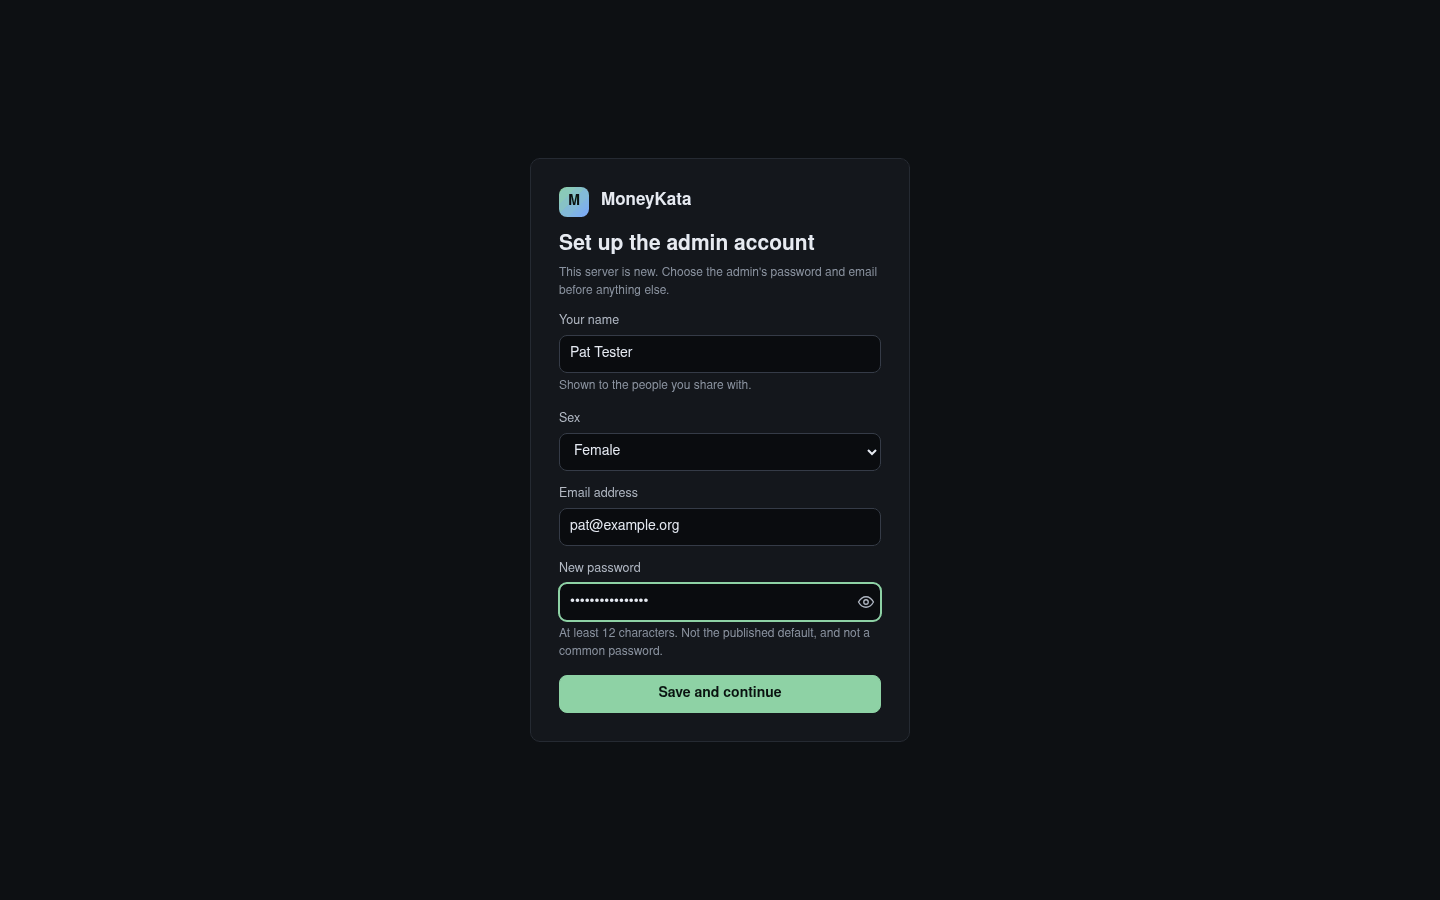
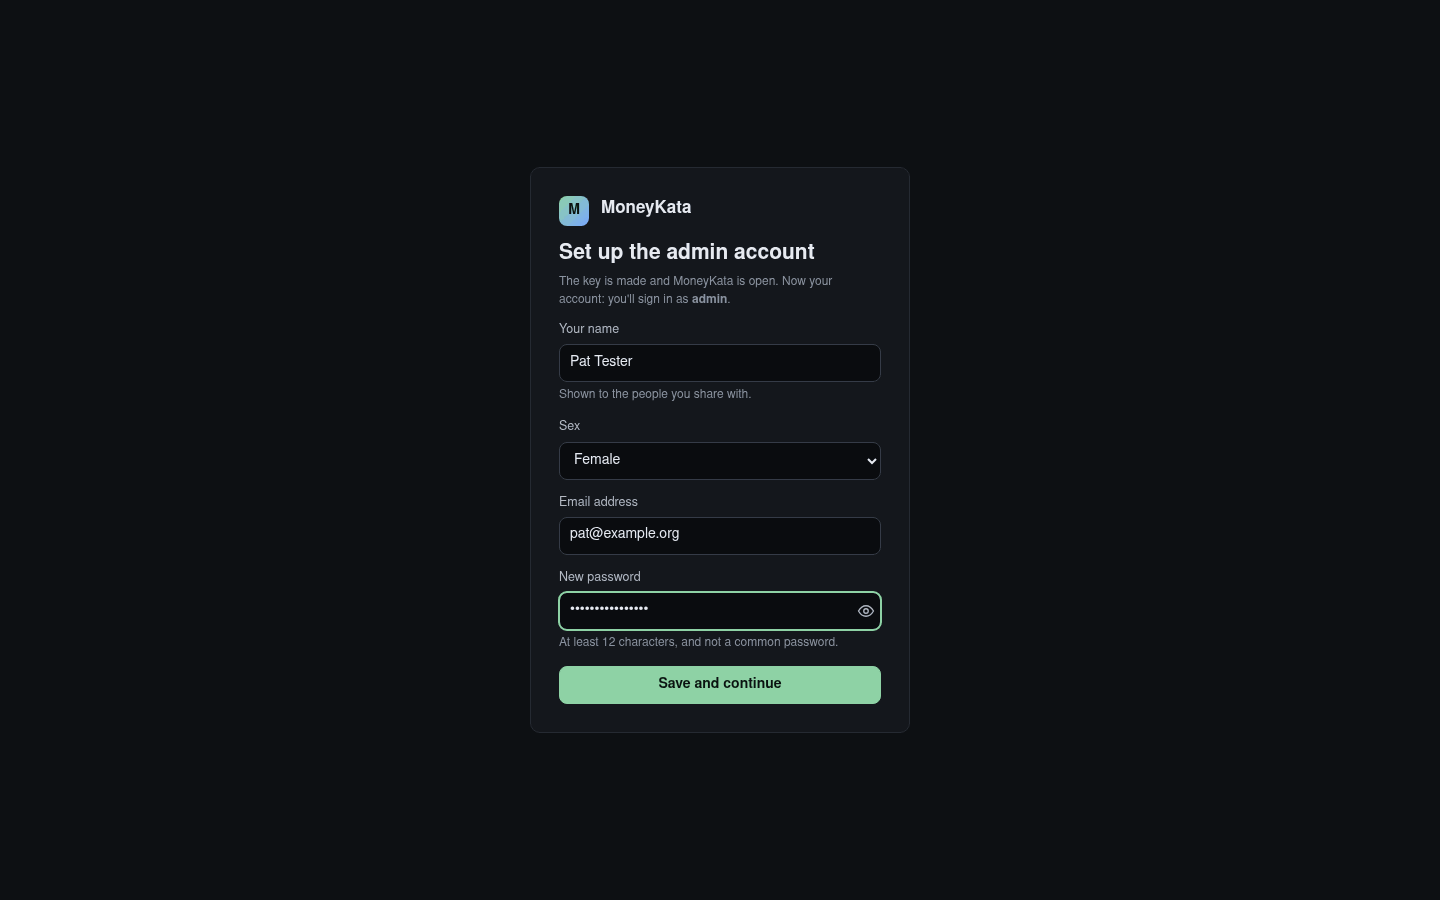
Welcome (part 4 of 6): smoke.sh and the docs
- web/install/smoke.sh, the release gate on each architecture: a keyring it can't read
  refuses the start (exit 78); a new server starts uninitialised and alive to its health
  check; the welcome's routes make its key and first admin; it stops cleanly, comes back
  locked, opens with `keys unlock` and signs in. Run here on amd64: passed.
- DEPLOY.md: no `keys init` step on either host; §5 is the welcome (the phrase's screenshot
  blurred: never a real one in a picture), with the locked screen after every restart and
  Verify key; TrueNAS shows Running once the container answers; a key nobody wrote down is
  started over without its keyring.
- operations.md: the welcome as §2 step 4 (`keys init` on a terminal as the other way),
  health that means alive, the refused start's table, and Verify key in the drills;
  S17.8.1's smoke run; the README and the test plan's T10-T11.

Changed region(s): [[0.375, 0.4978, 0.625, 0.8089], [0.375, 0.1867, 0.5938, 0.4978]]

diff --git a/web/server/tests/test_install.py b/web/server/tests/test_install.py
@@ -174,7 +174,10 @@ def test_the_smoke_script_is_there_for_each_platform():
         "web/install/smoke.sh must be executable"
     )
     text = script.read_text()
-    assert "linux/arm64" in text and "keys unlock" in text and "503" in text
+    assert "linux/arm64" in text and "keys unlock" in text
+    # A new server's welcome, then the locked start after a restart (S15.4).
+    assert "wait_for uninitialised" in text and "/ui/api/welcome/key" in text
+    assert "wait_for locked" in text
 
 
 def test_the_truenas_app_keeps_the_compose_files_promises():

diff --git a/docs/operations.md b/docs/operations.md
@@ -15,7 +15,8 @@ listening on port 37373. It needs three things from the host, and one thing from
 | `backups/`      | `/var/backups/moneykata`  | the daily backups                               |
 | `moneykata.toml`| `/etc/moneykata.toml` (read only) | the configuration; never a secret       |
 
-The master key is the **recovery phrase**, and it is never stored: the server starts locked
+The master key is the **recovery phrase**, and it is never stored: a new server's page
+welcomes its first admin and shows the phrase once, and after that the server starts locked
 after every start (a restart, an upgrade, a reboot) until someone enters the phrase, on the
 locked screen in a browser or with `docker compose exec moneykata moneykata keys unlock`
 (S15.4). Nothing on the host holds a key, so the host can be snapshotted and backed up whole.
@@ -58,8 +59,9 @@ The app itself (`/ui`) stays reachable only on the household's own network or ov
    ```
 
    `web/install/smoke.sh [linux/arm64]` builds both images for a platform and runs them
-   once, as a release's gate does (S17.8.1): the key from a phrase, a refused start, health,
-   a sign-in, a receipt read, the connector's vault and unlock, and clean stops. Another
+   once, as a release's gate does (S17.8.1): a refused start, the welcome's key and first
+   admin, a locked restart and its unlock, health, a sign-in, a receipt read, the connector's
+   vault and unlock, and clean stops. Another
    platform than the machine's own runs under QEMU (`docker run --privileged --rm
    tonistiigi/binfmt --install arm64`, once).
 2. **Make the folders**, owned by the container's user:
@@ -71,12 +73,7 @@ The app itself (`/ui`) stays reachable only on the household's own network or ov
    Keep `backups/` inside what the host backs up, beside `data/` (S14.6): a backup here is the
    database only, and the host's own backup of both is what keeps the receipts. A further copy
    off the host is welcome, as long as the phrase never goes with it.
-3. **Make the master key**: `docker compose run --rm moneykata keys init`. It shows the
-   **recovery phrase**, 12 words, on the terminal only (never in Docker's logs; it refuses to
-   run without a terminal), and won't finish until you type three of them back. The phrase is
-   the key: nothing of it is written, and nothing shows it again. Store it as S15.6 says: two
-   copies in two places, one offline, never with the backups.
-4. **Start it**: `docker compose up -d`, then point the reverse proxy at it and set
+3. **Start it**: `docker compose up -d`, then point the reverse proxy at it and set
    `trusted_proxies` in `moneykata.toml` to the proxy's own address, never a whole range
    (S13.3): anything else in the range could pose as the proxy. The listener speaks plain HTTP
    in `proxy` mode, so the compose file publishes it on the host's loopback only. A proxy in
@@ -87,10 +84,19 @@ The app itself (`/ui`) stays reachable only on the household's own network or ov
    `127.0.0.1:37373` from the bridge's gateway, `172.30.37.1`, as every other process on the
    host does. The compose file gives the container the host's time zone (`/etc/localtime` and
    `TZ`), which backups and daily emails follow.
-5. **Unlock it**: it starts locked. Open the app and enter the phrase on the locked screen,
-   or run `docker compose exec moneykata moneykata keys unlock` and type it there. Do this
-   after every start. A server with no users then makes `admin` with a default password; its
-   first sign-in asks for a new password and an email address (S10.1.2).
+4. **Open it: the welcome.** With no keyring, the server starts uninitialised and its page
+   welcomes the first admin (S15.4.4): **Show my recovery phrase** shows the 12 words once,
+   three typed back make the key, and **Set up the admin account** makes `admin`, signed in at
+   once (S10.1.2). The phrase is the key: nothing of it is written, and nothing shows it again.
+   Store it as S15.6 says: two copies in two places, one offline, never with the backups.
+   Whoever reaches a new server first can finish its welcome; one that asks for words nobody
+   wrote down is started again without its keyring (`data/keyring`). On a terminal instead,
+   `docker compose run --rm moneykata keys init` makes the key before the first start (it
+   shows the phrase on the terminal only, never in Docker's logs); the page then sets up the
+   first admin at the first unlock.
+5. **Unlock it after every start**: it starts locked. Open the app and enter the phrase on the
+   locked screen, or run `docker compose exec moneykata moneykata keys unlock` and type it
+   there.
 
 ### 2.1 On Proxmox
 
@@ -106,9 +112,9 @@ The app itself (`/ui`) stays reachable only on the household's own network or ov
 ### 2.2 On TrueNAS
 
 [`DEPLOY.md`](DEPLOY.md) §4 installs it on TrueNAS Community Edition manually, step by step: two
-datasets for data and backups, owned by uid 10001; the image built and the key made from
-**System › Shell** (`docker run -it … keys init`, since a custom app has no compose folder to
-run it from); and a **custom app** from **Install via YAML**, with the datasets as host paths.
+datasets for data and backups, owned by uid 10001, and `moneykata.toml` beside them, made in
+**System › Shell**; a **custom app** from **Install via YAML**, with the datasets as host paths;
+and the welcome, which makes the key and the admin.
 Both datasets go into snapshot and replication tasks as they are: nothing in them opens
 without the phrase. Unlock after each start (§2 step 5).
 
@@ -129,8 +135,7 @@ without the phrase. Unlock after each start (§2 step 5).
    `moneykata` service and the key commands), and run `docker compose up -d`.
 2. At the unlock the server copies the database into `data/pre-upgrade/` and checks the copy,
    then migrates it one revision at a time. The three newest copies are kept.
-3. Unlock it (§2 step 5), then watch it come up: `docker compose ps` shows `healthy` once
-   it answers; it shows `unhealthy` while locked.
+3. Unlock it (§2 step 5), then watch it come up: `/healthz` answers `ok` once it serves.
 
 **Going back** to the earlier release: stop it, set the old tag again, and restore the copy
 made before the upgrade with `db restore data/pre-upgrade/<copy>` (or the last backup, §6). An
@@ -162,12 +167,15 @@ start:` line (§5.1).
   household do): signed calls between servers and from the connector are refused when the
   clocks differ by more than a minute, and two-step codes drift with them.
 - **Health**: the image checks itself every 30 seconds (`moneykata health`, which asks
-  `/healthz`). `docker compose ps` shows `starting`, `healthy` or `unhealthy`. From outside,
+  `/healthz`): it is healthy whenever the server answers, ready, locked or uninitialised, so
+  `docker compose ps` (and an orchestrator waiting for healthy containers) shows `healthy`
+  while the server waits for its phrase, and `unhealthy` only when nothing answers (S13.6).
+  Whether it is ready is `/healthz`'s own answer. From outside,
   point an uptime monitor (Uptime Kuma, for example) at `https://<your address>/healthz`: it
   answers `{"status": "ok", "version": …}` once the server is unlocked and ready, 503 with
-  `"re-encrypting"` while a re-encryption runs at the unlock, and 503 with `"locked"` while it
+  `"re-encrypting"` while a re-encryption runs at the unlock, 503 with `"locked"` while it
   waits for the phrase, which is how anyone learns that a reboot happened and the phrase is
-  needed.
+  needed, and 503 with `"uninitialised"` on a new server, until its welcome makes the key.
 - **Alerts**: problems that need someone show in Alerts for admins, and are emailed to those
   who chose it: a failed backup, a price source, email, the bitcoin node or a linked server
   failing for longer than Settings › Alerts allows, and a recovery phrase not confirmed.
@@ -187,7 +195,7 @@ causes:
 
 | The line says                         | Do                                                      |
 |---------------------------------------|---------------------------------------------------------|
-| the keyring is missing or can't be read | a new server: `keys init` (§2); a rebuilt one: restore a backup (§6.2) |
+| the keyring can't be read              | restore it with a backup (§6); a new server has no keyring at all, and starts uninitialised |
 | the config file has a problem, or a key it doesn't know | fix `moneykata.toml` as the line says |
 | the data directory is in use          | another server, or a host command, is using the same `data/`: stop it |
 
@@ -220,8 +228,9 @@ phrase, or the keyring from another server: the line names its fingerprint).
 
 ### 6.2 Onto a new host
 
-1. Install the image and make the folders as in §2, but don't run `keys init`: the backup
-   brings its keyring, and the phrase is the key.
+1. Install the image and make the folders as in §2, but don't start it: a server started on
+   an empty `data/` would welcome a new admin and make a new key, and the backup brings its own
+   keyring, under its phrase.
 2. Put `data/receipts/` back from the host's own backup, taken as near the backup's time as it
    has: a backup here holds no receipts (§4).
 3. Copy the backup folder into the new `backups/`, then restore, start and unlock as in §6.1,
@@ -233,16 +242,17 @@ phrase, or the keyring from another server: the line names its fingerprint).
   checks the newest backup's hashes, when it was made and that it opens, and changes nothing.
 - **Yearly**: rehearse §6.2 into a throwaway folder on another machine or a scratch VM, with
   the phrase from its offline copy. That proves the backups, the phrase and these steps
-  together. In the same sitting, check the phrase's copies are readable and run
-  `docker compose run --rm moneykata keys verify` (S15.6.5). Every unlock after a restart is
-  a check as well.
+  together. In the same sitting, check the phrase's copies are readable and check each with
+  **Verify key** in Settings › Key storage (or `docker compose run --rm moneykata keys verify`,
+  S15.6.5). Every unlock after a restart is a check as well.
 
 ## 7. Keys
 
 - **Unlock after a start**: `docker compose exec moneykata moneykata keys unlock`, which hands
   the phrase to the server over its socket, or the locked screen in a browser. Nothing shows
   the phrase again: it is never stored.
-- **Check a copy of the phrase**: `docker compose run --rm moneykata keys verify`.
+- **Check a copy of the phrase**: **Verify key** in Settings › Key storage, or `docker compose
+  run --rm moneykata keys verify`.
 - **Rotate the master key** (S15.7.1): a rotation brings a new data key as well, so the data is
   re-encrypted. With the server running, `docker compose exec moneykata moneykata keys rotate`.
   It needs no old phrase (the running server holds the data key), shows the new one on the

diff --git a/docs/DEPLOY.md b/docs/DEPLOY.md
@@ -9,9 +9,9 @@ relies on goes behind its reverse proxy instead ([`operations.md`](operations.md
 keys and the connector.
 
 The steps were run on Proxmox VE 9.2 with a Debian 13 guest and Docker Engine 29, and on
-TrueNAS Community Edition 25.10.7, with the image built on each host; the screenshots are from
-those runs. A release's images are published on ghcr.io (§2), and a host pulls them in place
-of that build.
+TrueNAS Community Edition 25.10.7, with the image built on each host; their screenshots are from
+those runs, and §5's are from a server built from the same source. A release's images are
+published on ghcr.io (§2), and a host pulls them in place of that build.
 
 ## 1. What you need
 
@@ -159,21 +159,18 @@ UI show the VM's address on its **Summary**; it starts by itself at every boot a
    EOF
    ```
 
-3. **Make the master key**: `docker compose run --rm moneykata keys init`, which first
-   pulls the image (§2). It shows the
-   **recovery phrase**, 12 words. Write them down, then type the three it asks for. Nothing
-   shows the phrase again (S15.6 says how to keep it: two copies in two places, one offline).
-4. **Start it**: `docker compose up -d moneykata`. Name the service: the compose file's
-   other one is the connector, which needs a setup of its own before it starts
-   (operations.md §8).
-5. **Unlock it** in a browser, §5.
+3. **Start it**: `docker compose up -d moneykata`, which first pulls the image (§2). Name the
+   service: the compose file's other one is the connector, which needs a setup of its own
+   before it starts (operations.md §8).
+4. **Open it** in a browser: the welcome makes its master key and your account (§5).
 
 ### 3.4 After a reboot
 
 The VM starts with the host (`--onboot 1`), and Docker starts MoneyKata with it
 (`restart: unless-stopped`, S13.6), **locked**: open it and enter the phrase (§5).
-`docker compose ps` in `~/moneykata` shows `health: starting` for its first two minutes or
-so, then `unhealthy` while it waits for the phrase, and `healthy` once it has it.
+`docker compose ps` in `~/moneykata` shows it `healthy` whenever it answers, locked or not;
+`curl -k https://192.168.1.50:37373/healthz` says whether it is waiting for its phrase
+(`locked`) or open (`ok`).
 
 ## 4. TrueNAS, installed manually
 
@@ -197,14 +194,14 @@ The steps below use a pool named `tank` and the NAS's address `192.168.1.20`.
 
 ![The datasets](deploy/truenas-datasets.png)
 
-### 4.2 The configuration and the key
+### 4.2 The configuration
 
 Open **System › Shell**; `sudo` asks for `truenas_admin`'s password. Keep the page open
 until each command has finished. (SSH works as well, once it is turned on under **System ›
 Services**; it is off by default.)
 
-1. **Give the datasets to the container's user** (uid 10001) and **write the configuration**
-   beside them:
+**Give the datasets to the container's user** (uid 10001) and **write the configuration**
+beside them:
 
    ```sh
    sudo chown 10001:10001 /mnt/tank/moneykata/data /mnt/tank/moneykata/backups
@@ -223,16 +220,6 @@ Services**; it is off by default.)
    EOF
    ```
 
-2. **Make the master key**, which first pulls the image (§2). It shows the **recovery
-   phrase**, 12 words: write them down, then type the three it asks for.
-
-   ```sh
-   sudo docker run --rm -it \
-     -v /mnt/tank/moneykata/data:/var/lib/moneykata \
-     -v /mnt/tank/moneykata/backups:/var/backups/moneykata \
-     -v /mnt/tank/moneykata/moneykata.toml:/etc/moneykata.toml:ro \
-     ghcr.io/mojokata/moneykata:0.1.0 keys init
-   ```
 
 ### 4.3 Install the app
 
@@ -266,11 +253,10 @@ services:
 
 ![Install via YAML](deploy/truenas-install-yaml.png)
 
-The install finishes at once. The app shows **Deploying** while MoneyKata waits for the
-phrase, and **Running** once it is unlocked (§5). The NAS's time zone (**System › General
-Settings › Localization › Settings**) is the server's, for backups and emails.
-
-![The app, Deploying until it is unlocked](deploy/truenas-app-locked.png)
+The install pulls the image (§2) and finishes once the container answers: the app shows
+**Running**. Then open it: the welcome makes its master key and your account (§5). The NAS's
+time zone (**System › General Settings › Localization › Settings**) is the server's, for
+backups and emails.
 
 ### 4.4 Snapshots and restarts
 
@@ -278,27 +264,35 @@ Settings › Localization › Settings**) is the server's, for backups and email
   **Recursive** ticked, **Save**; by default it keeps two weeks of daily snapshots. Nothing
   in them opens without the phrase; operations.md §2.3 says what a snapshot is and isn't.
 - After the NAS restarts, the app starts again by itself (`restart: unless-stopped`),
-  **locked**, and shows **Deploying** until someone enters the phrase (§5).
+  **locked**, until someone enters the phrase (§5).
 - Deleting the app (the app's **Delete**) offers **Remove Images**, ticked. Either way the
   datasets stay as they are, and the image is pulled again by the next install.
 
-## 5. Unlocking and the first sign-in
+## 5. The welcome
 
 1. Open `https://<address>:37373` (`https://192.168.1.50:37373` for the VM,
    `https://192.168.1.20:37373` for the NAS). The browser warns that the certificate isn't
    trusted, since MoneyKata made it itself: continue to the site.
-2. The **locked** screen asks for the recovery phrase. Enter the 12 words; the server opens
-   its database and the sign-in page follows.
+2. A new server shows **Welcome to MoneyKata**. Have paper and a pen ready, then **Show my
+   recovery phrase**.
 
-   ![The locked screen](deploy/moneykata-locked.png)
+   ![The welcome](deploy/moneykata-welcome.png)
 
-3. Sign in as **`admin`** with the published password **`moneykata-setup`**. The first sign-in
-   leads only to **Set up the admin account** (S10.1.2): a name, sex, an email address and a
-   new password of at least 12 characters.
+3. **Write the 12 words down**, in order, with the fingerprint. They're the master key, and
+   nothing shows them again: keep two copies in two places, one of them offline, and never
+   with the backups (S15.6). Every visit, or another browser, shows other words; only the ones
+   you confirm become the key. Then **I've written them down**.
 
-   ![The admin's first sign-in](deploy/moneykata-setup.png)
+   ![The recovery phrase (blurred here: never put a real one in a picture)](deploy/moneykata-phrase.png)
 
-4. Then the **Dashboard**. **Users and Groups** invites the other testers. An invitation is
+4. **Type three of the words back**, by their number, then **Make the key**. MoneyKata writes
+   its key and opens.
+5. **Set up the admin account**: a name, sex, an email address and a password of at least 12
+   characters. You sign in as **`admin`** from now on (S10.1.2).
+
+   ![The admin's account](deploy/moneykata-setup.png)
+
+6. Then the **Dashboard**. **Users and Groups** invites the other testers. An invitation is
    an email: until **Settings › Email** has an SMTP server, each is written to the mail folder
    instead, and **Settings › Email** lists them, with **Open** to show the link to pass on.
    The help pane (**F1**) explains every screen, and `/demo` on the same address is the
@@ -306,9 +300,15 @@ Settings › Localization › Settings**) is the server's, for backups and email
 
    ![The Dashboard](deploy/moneykata-dashboard.png)
 
-Instead of the browser, the phrase can be entered on the host:
-`docker compose exec moneykata moneykata keys unlock` in `~/moneykata` on the VM;
+**After every restart** the server is **locked** until someone enters the phrase: the page
+asks for the 12 words, and sign-in follows. Instead of the browser, the phrase can be entered on
+the host: `docker compose exec moneykata moneykata keys unlock` in `~/moneykata` on the VM;
 `sudo docker exec -it ix-moneykata-moneykata-1 moneykata keys unlock` on TrueNAS.
+
+![The locked screen](deploy/moneykata-locked.png)
+
+**Check a copy of the phrase** once a year with **Verify key** in Settings › Key storage, and
+whenever you make a new copy; the yearly alert opens it.
 
 ## 6. A new release
 
@@ -328,5 +328,9 @@ Instead of the browser, the phrase can be entered on the host:
   certificate outright was given an address the certificate doesn't name: add it under
   `[tls] names` and restart; the server makes a new certificate.
 - **It says it's locked**: it waits for the phrase after every start (§5).
+- **A key nobody wrote down**: if someone else on the network finished the welcome first, the
+  new server asks for words you never saw. Stop it, remove the keyring
+  (`data/keyring`; on TrueNAS, in the `data` dataset), start it again, and the welcome comes
+  back. Nothing is lost on a new server.
 - **A lost phrase**: a running, unlocked server can still make a new one,
   `keys rotate` (operations.md §7). Once it restarts without one, nothing opens the data.

diff --git a/docs/requirements/S17-implementation.md b/docs/requirements/S17-implementation.md
@@ -183,8 +183,9 @@
       dependency must install from a published wheel for both (onnxruntime, opencv, numpy,
       pi-heif, sqlcipher3 among them), so nothing is compiled in the image; a check fails
       when one has no arm64 wheel. Each architecture's release gate is `web/install/smoke.sh`
-      on its own runner (the key from a phrase, a refused start, health, a sign-in, a receipt
-      read, the connector's vault and unlock, clean stops); the trial on household hardware
+      on its own runner (a refused start, the welcome's key and first admin, a locked restart and
+      its unlock, health, a sign-in, a receipt read, the connector's vault and unlock, clean
+      stops); the trial on household hardware
       (a Raspberry Pi, an arm64 NAS), which alone measures the reader's speed there
       (S9.8.4.5), is in the manual test plan (S17.9.7.8), and a release says whether it was
       run.

diff --git a/README.md b/README.md
@@ -78,9 +78,9 @@ tag); to build the server's image yourself, from the repository's root:
 docker buildx build -f web/install/Dockerfile -t ghcr.io/mojokata/moneykata:$(cat web/VERSION) --load .
 ```
 
-and `web/install/compose.yaml` is the example to run it from. A new server has one user,
-`admin`, with the published password `moneykata-setup`: its first sign-in leads only to choosing
-a password and an email address. A running server serves the clickable mockup at `/demo`.
+and `web/install/compose.yaml` is the example to run it from. A new server welcomes its first
+admin: it shows the recovery phrase once, takes three of its words back, and sets up the
+`admin` account. A running server serves the clickable mockup at `/demo`.
 
 ## Deploying
 

diff --git a/docs/test-plan.md b/docs/test-plan.md
@@ -117,8 +117,8 @@ as ofxhome.com lists them), a routing and account number, and a sign-in.
 
 ## T10–T11: Proxmox and TrueNAS
 
-Follow `DEPLOY.md` §3 or §4 on the real host. Passing: the install reaches healthy
-once unlocked, a restart comes back locked and the phrase opens it with the data intact, a
+Follow `DEPLOY.md` §3 or §4 on the real host. Passing: the welcome makes the key and the
+admin, and `/healthz` answers `ok`; a restart comes back locked and the phrase opens it with the data intact, a
 snapshot of the host holds no key (search it for the keyring's fingerprint and the phrase's
 words: neither is there), and the daily backup lands in `backups/`. Record what the page
 didn't say and fix it.
